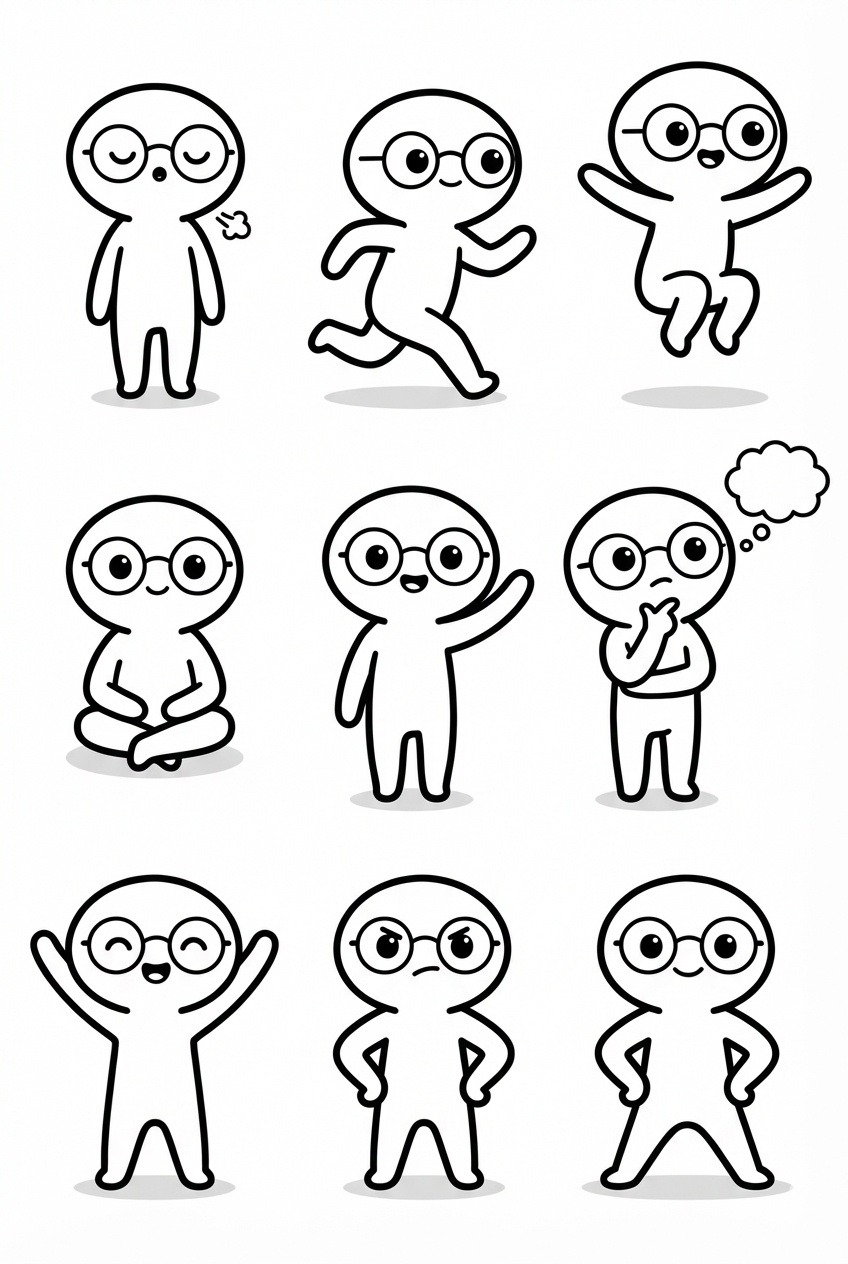
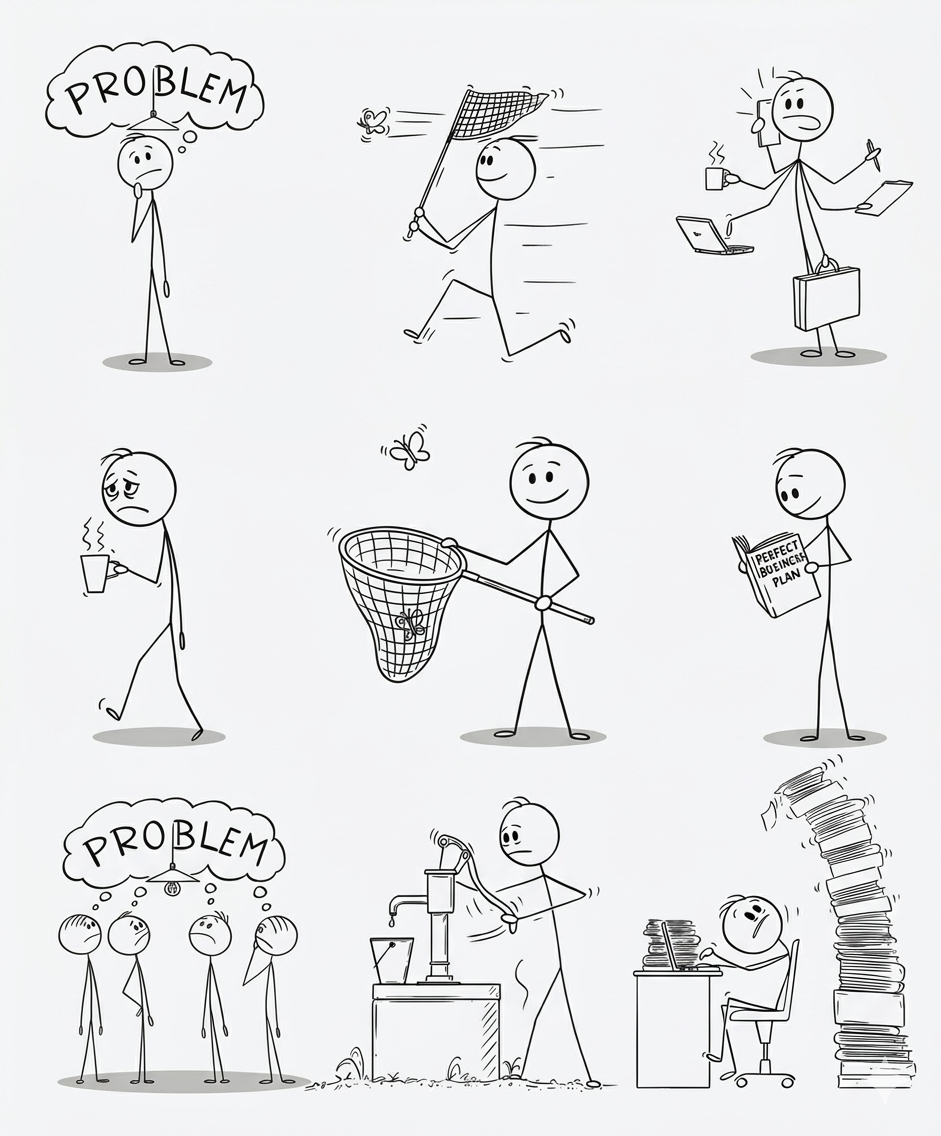
Simplify config mascot path

Changed region(s): [[0.0307, 0.0308, 0.9811, 0.9859], [0.3679, 0.0616, 0.6439, 0.3389], [0.0307, 0.0308, 0.3066, 0.3389]]

diff --git a/apps/web/src/lib/brandDefaults.ts b/apps/web/src/lib/brandDefaults.ts
@@ -17,5 +17,5 @@ export const DEFAULT_MASCOT_DESCRIPTION =
   "A minimalist, cute, gender-neutral stick-figure mascot with a very large perfectly round head " +
   "and a very small simple body underneath it. ";
 
-/** Same reference as path_utils.mascot_path() → assets/mascot_multiple.png, copied to public/. */
+/** Same reference as path_utils.mascot_path() → assets/stick.png, copied to public/ as brand-default-mascot.png. */
 export const DEFAULT_MASCOT_IMAGE_SRC = "/brand-default-mascot.png";

diff --git a/services/python-generator/scripts/path_utils.py b/services/python-generator/scripts/path_utils.py
@@ -38,27 +38,36 @@ def assets_dir() -> Path:
 
 def mascot_path() -> Path:
     """Default mascot canvas image path."""
-    return assets_dir() / "mascot_multiple.png"
+    return assets_dir() / "stick.png"
+
+
+def _is_assets_basename_only(raw: str) -> bool:
+    """True when config should resolve only under assets/ (single filename, no path separators)."""
+    if raw in (".", ".."):
+        return False
+    return "/" not in raw and "\\" not in raw
 
 
 def resolve_config_mascot_path(raw_path: str | None) -> Path | None:
     """Resolve a config/YAML mascot_path for monorepo dev and Lambda.
 
-    Relative paths in YAML are usually monorepo-relative (e.g. services/python-generator/assets/stick.png)
-    or generation-relative (assets/stick.png). In the container, code lives under
-    ``/var/task/generation/``, not ``/var/task/services/python-generator/``.
+    **Convention:** a basename only (e.g. ``stick.png``, no ``/``) resolves to
+    ``<generation-root>/assets/<name>``. Same layout locally and in the Lambda bundle.
+
+    Other relative paths: try monorepo root, then generation root (e.g. ``assets/foo.png``).
 
     Returns the first path that exists, or None so callers can fall back to :func:`mascot_path`.
     """
     if not raw_path or not str(raw_path).strip():
         return None
-    p = Path(str(raw_path).strip())
+    s = str(raw_path).strip()
+    p = Path(s)
     if p.is_absolute():
         return p if p.exists() else None
-    candidates: list[Path] = [project_root() / p, generation_root() / p]
-    parts = p.parts
-    if len(parts) >= 2 and parts[0] == "services" and parts[1] == "python-generator":
-        candidates.append(generation_root() / Path(*parts[2:]))
+    candidates: list[Path] = []
+    if _is_assets_basename_only(s):
+        candidates.append(assets_dir() / s)
+    candidates.extend([project_root() / p, generation_root() / p])
     for c in candidates:
         try:
             resolved = c.resolve()

diff --git a/services/python-generator/scripts/config_loader.py b/services/python-generator/scripts/config_loader.py
@@ -54,7 +54,10 @@ class ImageConfig(BaseModel):
     )
     mascot_path: str | None = Field(
         default=None,
-        description="Optional mascot image path (absolute or relative to project root)",
+        description=(
+            "Optional mascot image: basename only (e.g. stick.png) resolves under "
+            "generation assets/; otherwise absolute or path relative to repo or generation root"
+        ),
     )
 
 
